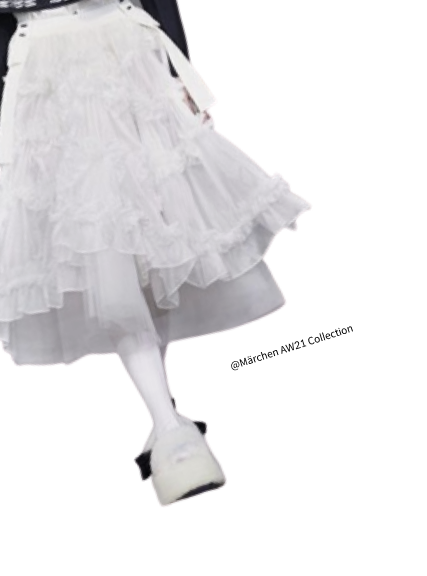
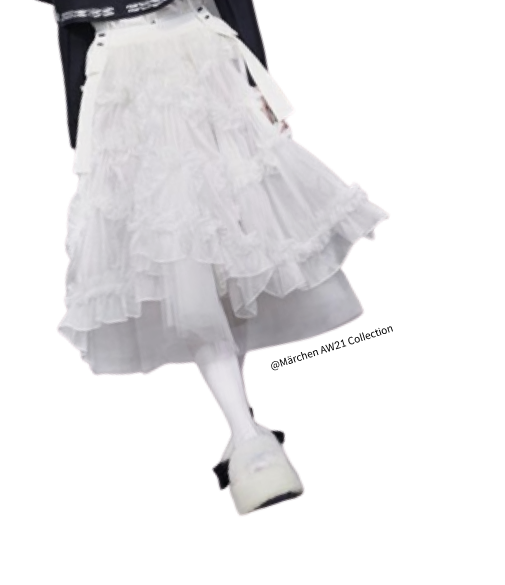
index micro update

diff --git a/web/src/pages/index.tsx b/web/src/pages/index.tsx
@@ -77,7 +77,7 @@ const Home: NextPage = () => {
             <Image priority src="/fig2.png" alt="" width={197} height={211} />
           </div>
           <div className="backgroundImg1">
-            <Image priority src="/main1.png" alt="" width={323} height={503} />
+            <Image priority src="/main1.png" alt="" width={505} height={585} />
           </div>
           <div className="backgroundImg2">
             <Image priority src="/main2.png" alt="" width={312} height={328} />
@@ -164,7 +164,7 @@ const Home: NextPage = () => {
           }
           .area {
             min-height: 95vh;
-            padding-top: 80px;
+            padding-top: 60px;
           }
           .middle {
             text-align: center;
@@ -173,7 +173,7 @@ const Home: NextPage = () => {
             will-change: opacity;
           }
           .ranking {
-            margin-bottom: 32px;
+            margin-bottom: 25px;
             line-height: 1.8;
           }
           .impact {
@@ -257,7 +257,6 @@ const Home: NextPage = () => {
           }
           .backgroundImg1 {
             position: absolute;
-            left: 0;
             top: 0;
           }
           .backgroundImg2 {
